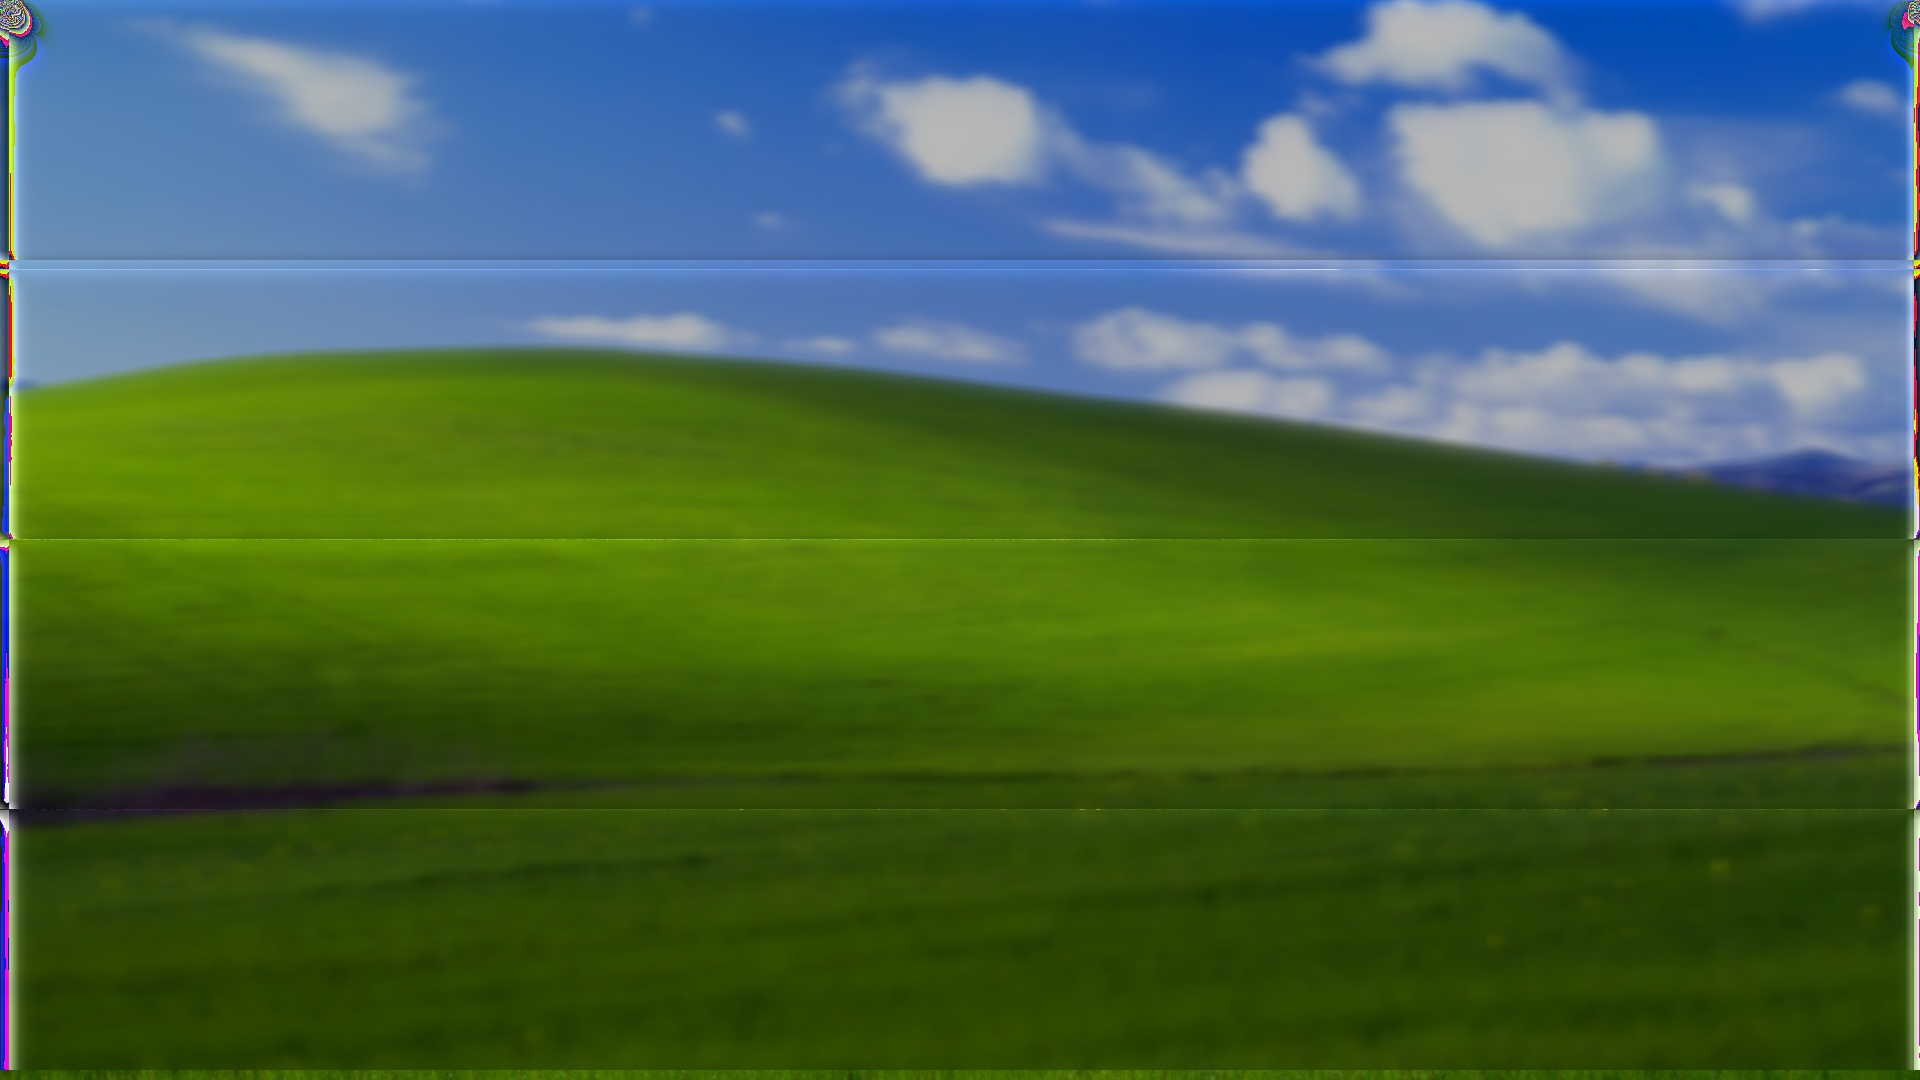
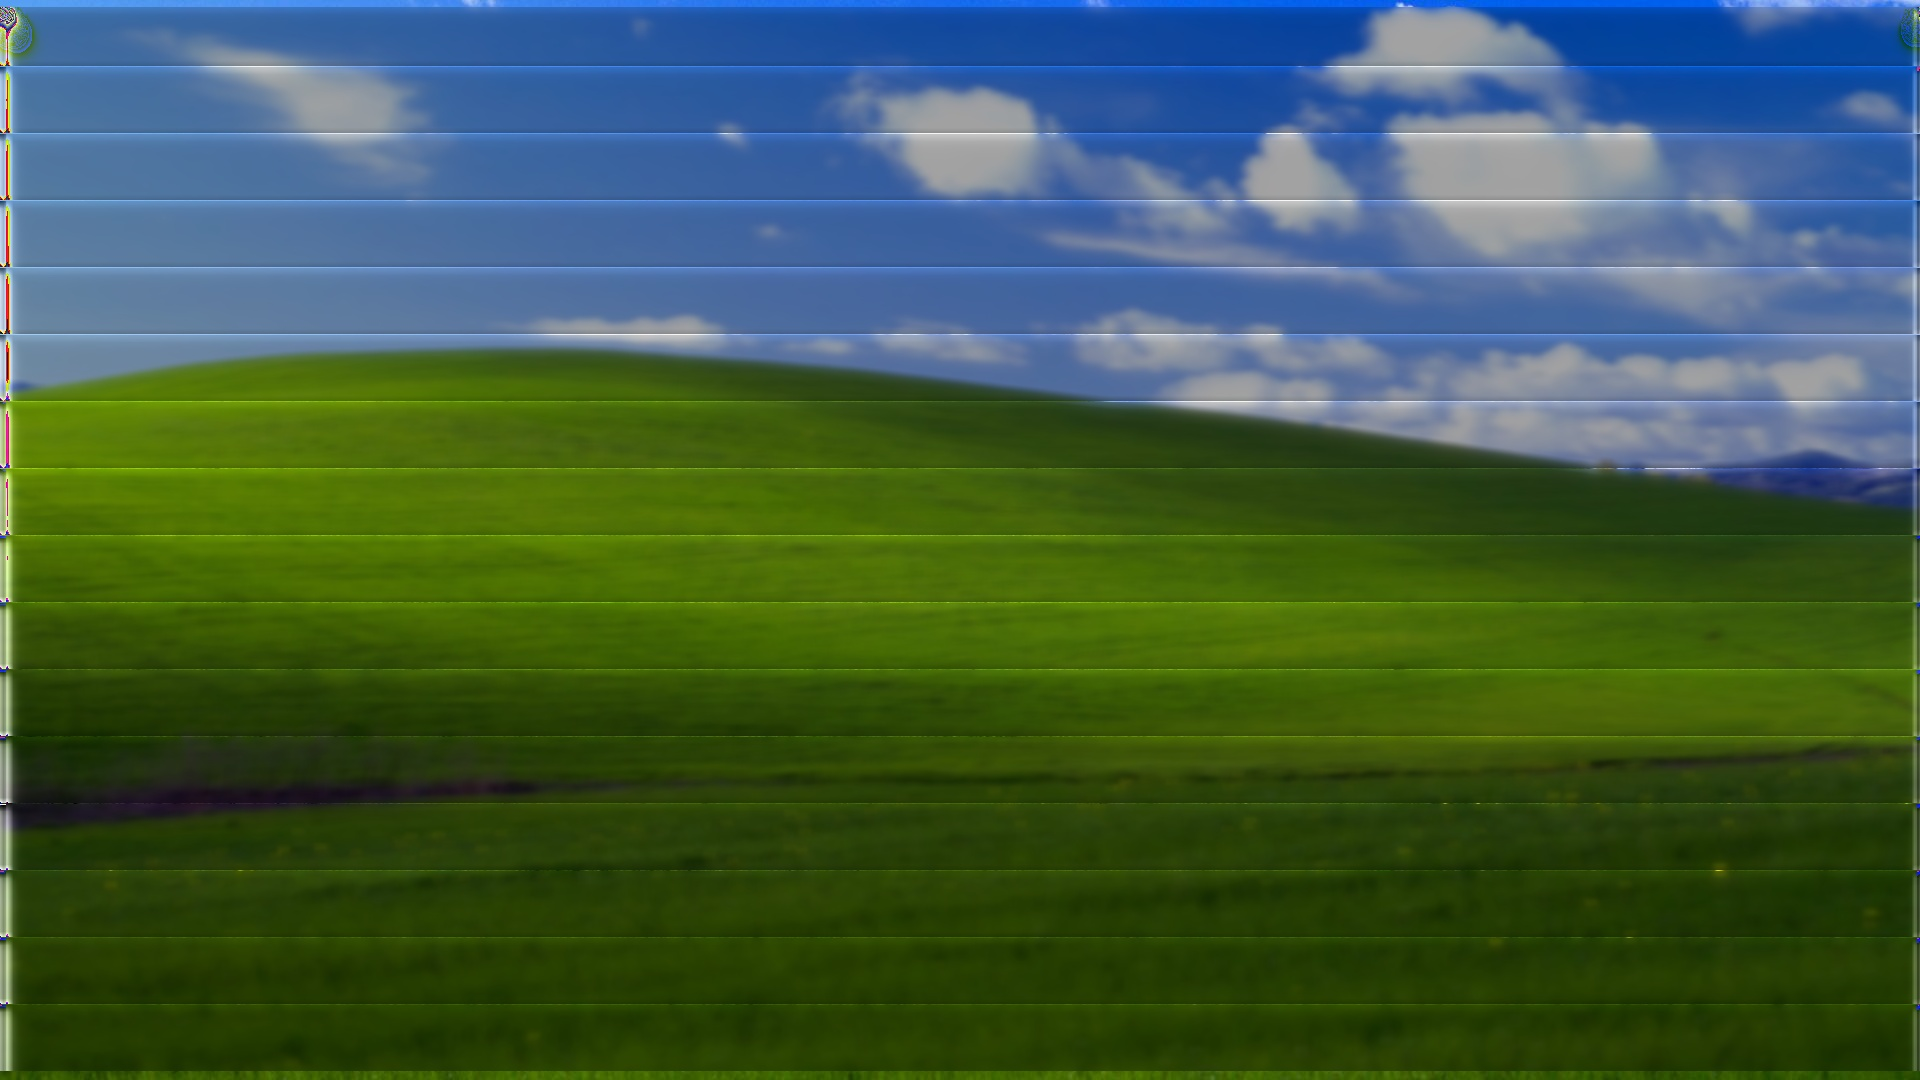
Clase antes del parcial, corre con todos los hilos

diff --git a/blurMP.cpp b/blurMP.cpp
@@ -45,18 +45,7 @@ struct params *kernel(struct params *p){
     // inicio o el final de la convolución para evitar que se desborde la imagen
     if(y1 == 0){ y1 += rad; }                                                   
     if(y2 == dimy){ y2 -= rad; }  
-
-    // TODO: Este bloque intenta tener en cuenta los bordes de la imagen para aplicar el efecto
-    // Se espera que también se puedan borrar las lineas horizontales con las que queda
-    if( y1-rad < 0 ){ 
-        upY = y1;
-        cant = ( filter + (y1-rad) ) * filter;
-    }
-    if( y2+rad > dimy ){ 
-        downY = dimy - rad; 
-        cant = ( (y2+rad) - dimy ) * filter;        
-    }    
-
+    
     // ------------------------------CONVOLUCIÓN--------------------------------------------------
     // Se aplica la convolución para cada canal de colores de la imagen.
     // Desde el Main se envía toda la imagen porque se necesitan pixeles
@@ -79,10 +68,16 @@ struct params *kernel(struct params *p){
             }
         }
     }
-
     // Luego de sobreescribir los valores de la imagen con los que se va a trabajar
     // se devuelve solamente el sector de la imagen con la que trabajó este hilo.
     // TODO: Esta puede ser una posible causa de las lineas horizontales    
+    if(y1-rad == 0){
+        y1 = 0;
+    }
+
+    if(y2+rad >= dimy){
+        y2 = dimy;
+    }
     int*** ret = 0;    
     ret = new int**[ch];
     for(k = 0; k < ch; k++){
@@ -94,7 +89,7 @@ struct params *kernel(struct params *p){
             }
         }
     }
-    
+
     // Se agrupan los datos de lo procesado y los retorna.
     struct params *retParams;
     retParams = (struct params*)malloc(sizeof(params));
@@ -111,7 +106,7 @@ int main(int argc, char** argv ){
 
     int NUMTHREADS  = atoi( argv[2] );              // Lee la cantidad de hilos desde la entrada
     int filter      = atoi( argv[3] );              // Lee el tamaño de la matriz de convolucion
-
+	//NUMTHREADS=NUMTHREADS+1;
     Mat imageIn;
     Mat imageOut;
     imageIn  = imread( argv[1], IMREAD_COLOR );     // Lee el nombre de la imagen a trabajar
@@ -121,7 +116,6 @@ int main(int argc, char** argv ){
     int dimy = imageIn.rows;                        // Dimension en Y de la imagen a trabajar
     int dimx = imageIn.cols;                        // Dimension en X de la imagen a trabajar
     int ch   = imageIn.channels();                  // Cantidad de canales que tiene la imagen
-    cout << "Channels: " << ch << endl;
     
     if ( !imageIn.data ){                           // Valida la imagen
         printf("No image data \n");
@@ -163,8 +157,8 @@ int main(int argc, char** argv ){
         // para luego enviarlos al kernel de ejecución
         struct params *sendParams;
         sendParams = (struct params *) malloc(sizeof(params));
-
         // Se indica el inicio y final de la porción de imagen con la que va a trabajar el hilo
+
         sendParams->ini     = th * distr;                        
 		sendParams->end     = sendParams->ini + distr;        
         sendParams->image   = image;            
@@ -177,6 +171,7 @@ int main(int argc, char** argv ){
         // se envían y se guarda el resultado en el primer arreglo de "inter"
 		inter[th][0] = *kernel( sendParams );   
     }
+
 
     // Cada sector de la imagen procesado por cada hilo quedó guardado en el arreglo Inter
     // este bloque recorre ese arreglo para luego guardarlo en la nueva imagen.
